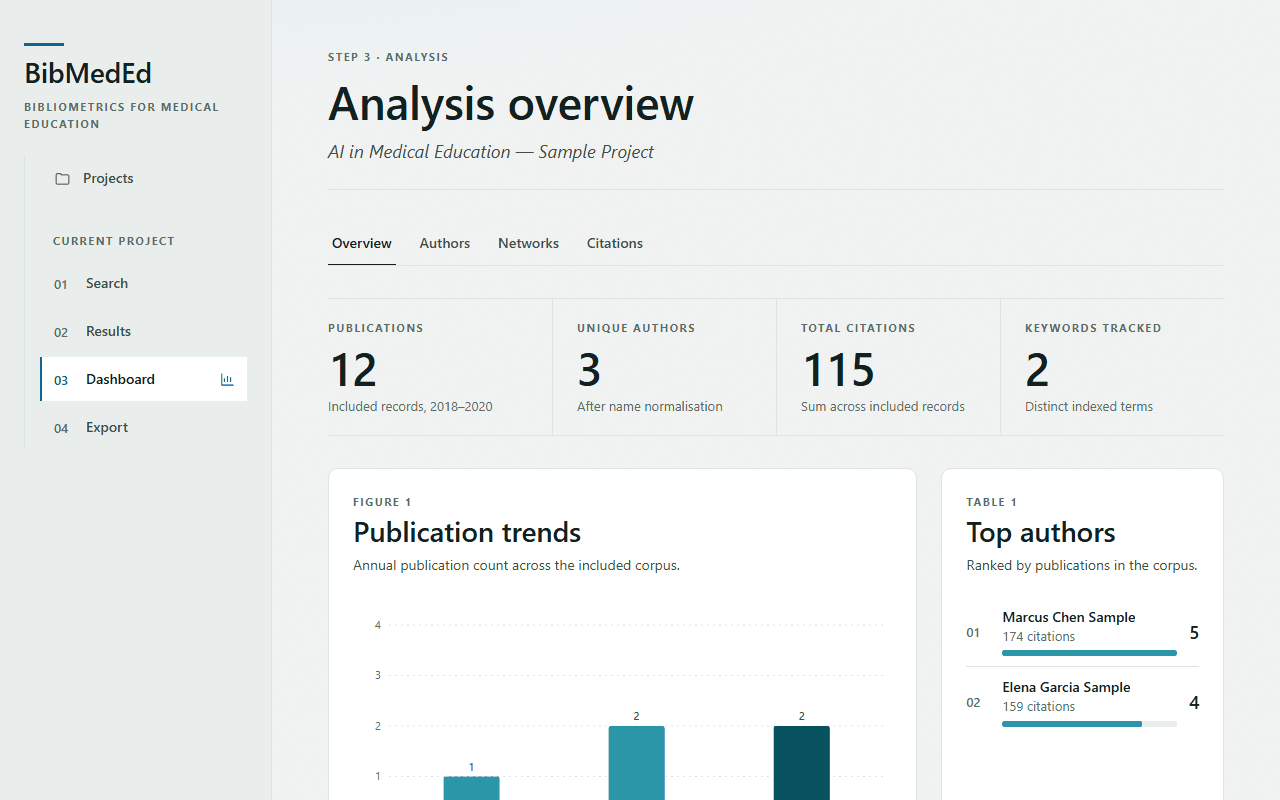
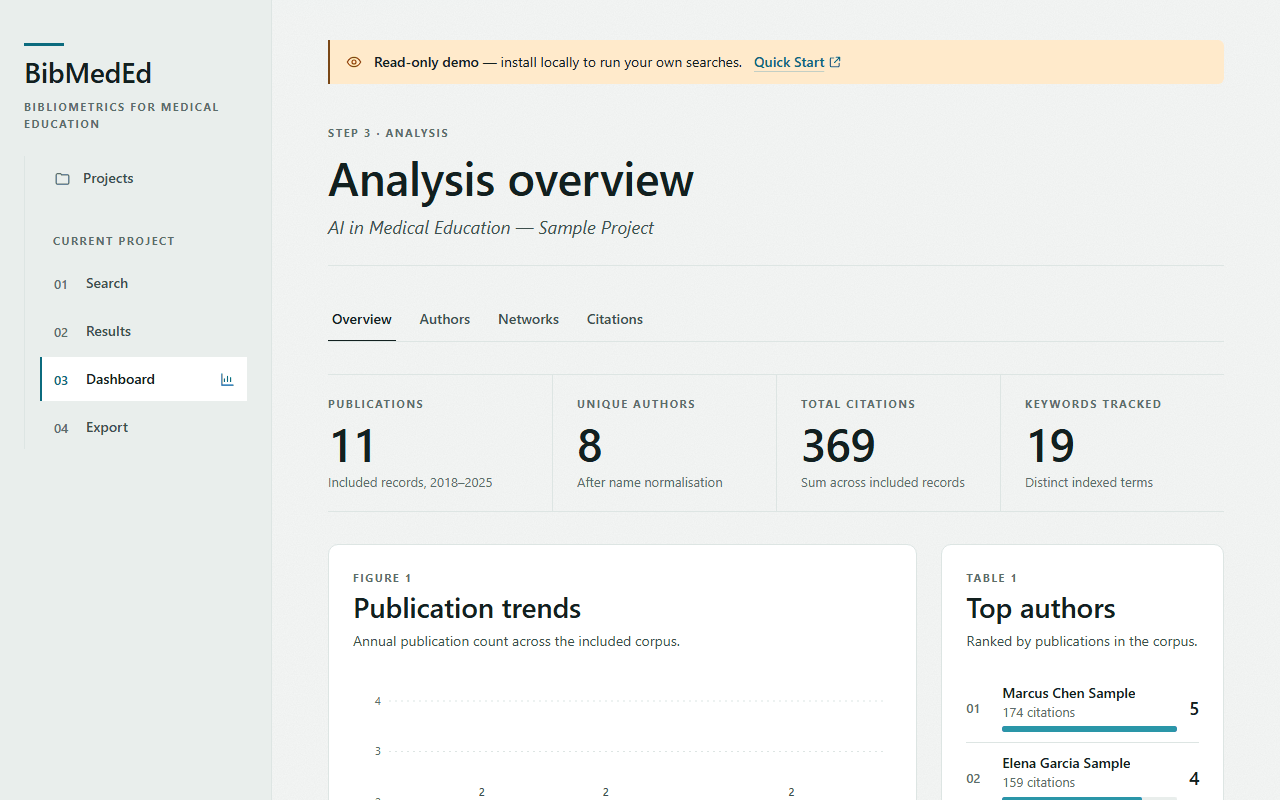
docs: real-data UI tour screenshots and README walkthrough GIF (#96)
Regenerate dashboard-hero, dashboard, results and search screenshots from
the read-only demo serving the bundled sample corpus, so numbers agree
across pages (13 identified, 1 duplicate, 1 excluded, 11 analysed). Add a
~22 s walkthrough GIF under the README hero and point the docs tour
captions at the local demo command.

Closes #85

diff --git a/docs/index.md b/docs/index.md
@@ -19,7 +19,7 @@ The screens below show the main steps of the workflow, from search to analysis.
 
 ### Dashboard analysis and search pipeline
 
-The search page builds and previews the query, the results page shows PRISMA flow counts and screening, and the dashboard visualizes bibliometric indicators. Screenshots use sample data.
+The search page builds and previews the query, the results page shows PRISMA flow counts and screening, and the dashboard visualizes bibliometric indicators. Every screenshot and the README walkthrough come from the bundled synthetic sample project (13 records, 1 duplicate removed, 1 excluded, 11 analysed), captured from the [local read-only demo](deploy.md#run-the-demo-locally) (`docker compose -f docker-compose.demo.yml up`), so you can reproduce them exactly.
 <p align="center">
   <img src="assets/dashboard.png" alt="BibMedEd analysis overview with publication trends, top authors, network preview and most cited publications" width="48%" loading="lazy" decoding="async">
   <img src="assets/results.png" alt="BibMedEd results review with PRISMA flow counts and a publication list" width="48%" loading="lazy" decoding="async">

diff --git a/README.md b/README.md
@@ -43,6 +43,12 @@
   <em><a href="https://ata381.github.io/BibMedEd/#user-interface-tour">Explore the full UI tour</a></em>
 </p>
 
+<p align="center">
+  <img src="docs/assets/tour.gif" alt="Animated walkthrough of BibMedEd: projects, PRISMA flow results, analysis dashboard with figures and a co-authorship network, and the export page" width="800">
+  <br>
+  <em>Synthetic sample data, running locally with <code>docker compose -f docker-compose.demo.yml up</code></em>
+</p>
+
 ## Features
 
 - **Multi-database search** — PubMed, OpenAlex, CrossRef, Semantic Scholar, and Lens.org built-in, extensible to any source via plug-and-play adapters
